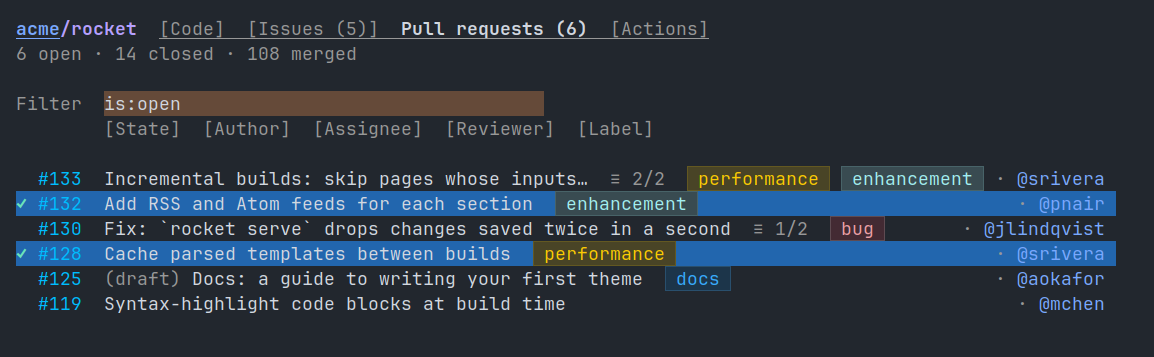
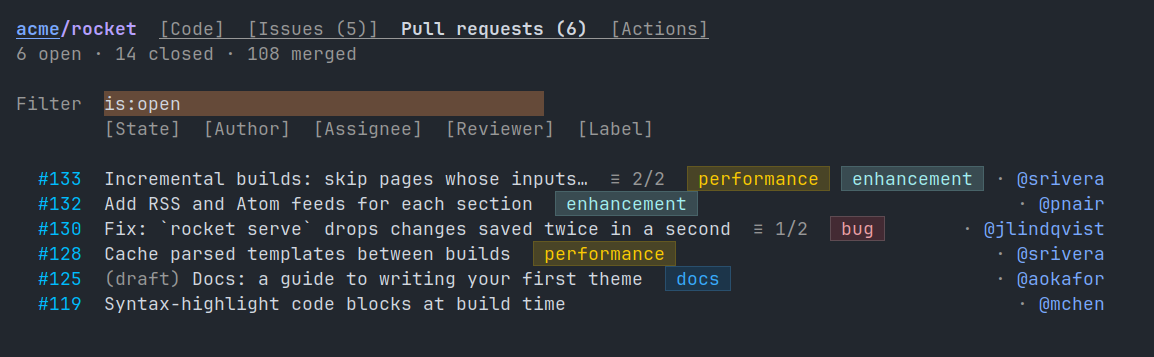
Label the marked PRs or issues at once from a Marked bar
While items are marked, a Marked bar takes the place of the two filter
rows, in as many rows, so the list doesn't move.  [Label] toggles labels
on them all: one every item has is taken off, any other added to the
rest; with more than one item changing, it asks first.

The changes go out one item at a time in the background, through the
new octocat-sync-submit-each, which shows "Labelling 3/10…" in the mode
line and in the bar, in place of its actions, and refetches the list
once at the end.

The list screenshots show no marks again; issue-list-marked shows the
Marked bar.

diff --git a/docs/screenshots/README.md b/docs/screenshots/README.md
@@ -87,9 +87,9 @@ a table; the drawer under a heading is left out.
 ## Pull requests
 
 `M-x octocat-pr-list`: the open pull requests, filtered by a GitHub
-search.  Two of them are marked with `m`, as files are in dired.
+search.
 
-<!-- screenshot: (pr-list "acme/rocket") :press ((:key "m" "Add RSS") (:key "m" "Cache parsed")) -->
+<!-- screenshot: (pr-list "acme/rocket") -->
 ![pr-list](pr-list.png)
 
 [As text](pr-list.txt)
@@ -97,7 +97,7 @@ search.  Two of them are marked with `m`, as files are in dired.
 
 Compact (`C-c C-v`):
 
-<!-- screenshot: (pr-list "acme/rocket") :name "pr-list-compact" :press ((:key "C-c C-v") (:key "m" "Add RSS") (:key "m" "Cache parsed")) -->
+<!-- screenshot: (pr-list "acme/rocket") :name "pr-list-compact" :press ((:key "C-c C-v")) -->
 ![pr-list-compact](pr-list-compact.png)
 
 [As text](pr-list-compact.txt)
@@ -138,12 +138,20 @@ A merged pull request: with no merge box, its checks end the page.
 
 ## Issues
 
-`M-x octocat-issue-list`, with two issues marked:
+`M-x octocat-issue-list`:
 
-<!-- screenshot: (issue-list "acme/rocket") :press ((:key "m" "Live reload") (:key "m" "Explain how")) -->
+<!-- screenshot: (issue-list "acme/rocket") -->
 ![issue-list](issue-list.png)
 
 [As text](issue-list.txt)
+<!-- /screenshot -->
+
+Two issues marked with `m`: the Marked bar takes the filters' place.
+
+<!-- screenshot: (issue-list "acme/rocket") :name "issue-list-marked" :press ((:key "m" "Live reload") (:key "m" "Explain how")) -->
+![issue-list-marked](issue-list-marked.png)
+
+[As text](issue-list-marked.txt)
 <!-- /screenshot -->
 
 An issue, and the pull request that will close it:

diff --git a/docs/user-interface-conventions.md b/docs/user-interface-conventions.md
@@ -875,6 +875,27 @@ keys with and without Evil:
   closed on refresh) is unmarked, so actions never touch items you
   can't see.
 
+### Acting on the marked items
+
+While anything is marked, a **Marked** bar takes the place of the
+filters, in as many rows, so the list doesn't move:
+
+```
+Marked  2 PRs  [Unmark all]
+        [Label]
+```
+
+- Each action prompts in the minibuffer, then asks to confirm when more
+  than one item would change.
+- **[Label]** toggles labels: `✓` marks one every item has (picking it
+  removes it from all), `–` one some have (picking it adds it to the
+  rest).
+- The changes go out one item at a time, in the background, through
+  `octocat-sync-submit-each`.  Until they are done, the bar shows the
+  progress, e.g. `▖ Labelling 3/10…`, in place of its actions, and so
+  does the mode line.  Marking still works.
+- `F` still changes the filter; unmark all to see it again.
+
 ---
 
 ## Buffer names

diff --git a/CHANGELOG.md b/CHANGELOG.md
@@ -4,6 +4,7 @@ All notable changes to this project will be documented in this file.
 The format is based on [Keep a Changelog](https://keepachangelog.com/en/1.0.0/).
 
 ## [Unreleased]
+* Marking PRs or issues swaps the filters for a bar that labels them all at once
 * A PR list with a closed PR that has no commits no longer fails to load
 * Mark PRs and issues in their lists as in dired: `m`, `u`, `U` (unmark all)
 * Long runs of commits or events in a timeline fold behind `▸ N more`; RET expands them

diff --git a/docs/usage.md b/docs/usage.md
@@ -155,6 +155,9 @@ Items are marked as files are in Dired, the same with Evil:
 A marked row shows `✓` and is highlighted.  An item that leaves the
 list, after a new query or once closed, is unmarked.
 
+While items are marked, a **Marked** bar replaces the filters and acts
+on them: **[Label]** adds or removes labels on all of them at once.
+
 ## Actions (`M-x octocat-run-list`, `M-x octocat-workflow-list`)
 
 The Actions tab has two pages, each its own buffer and major mode, so
